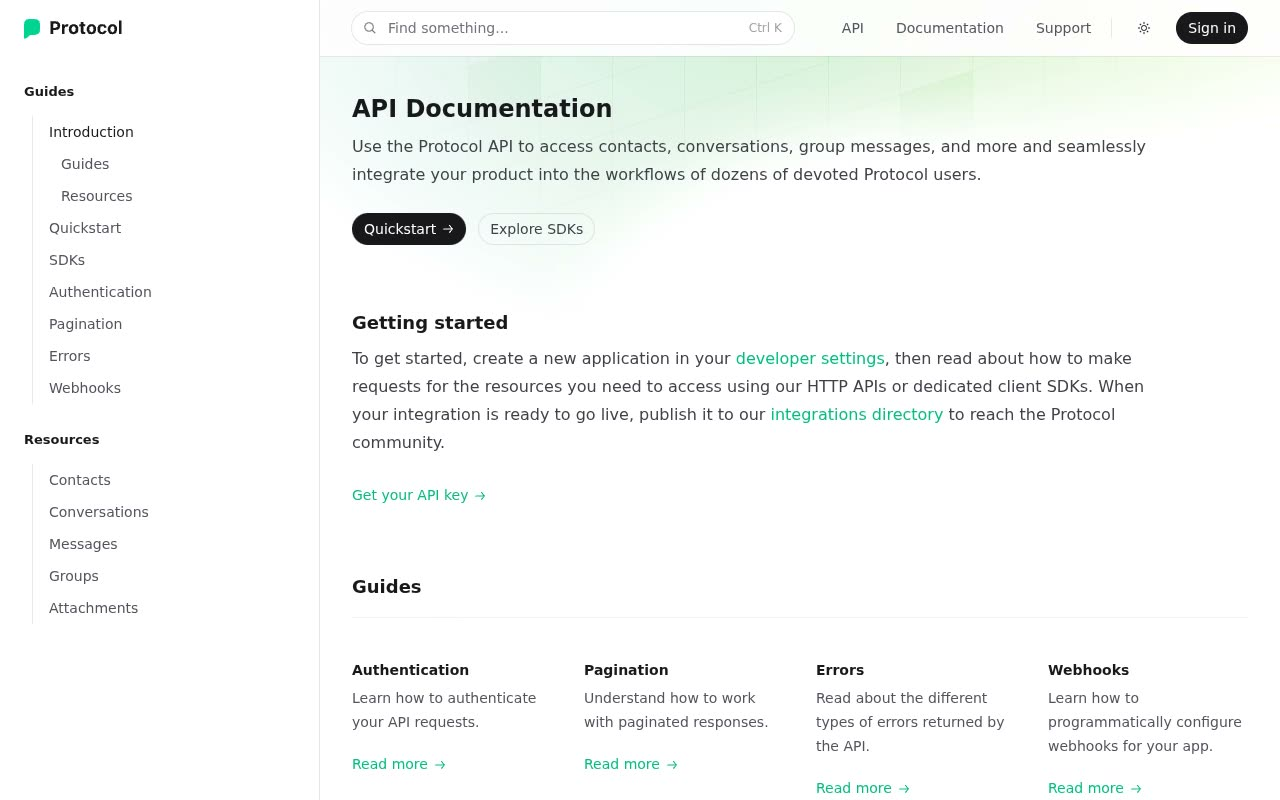
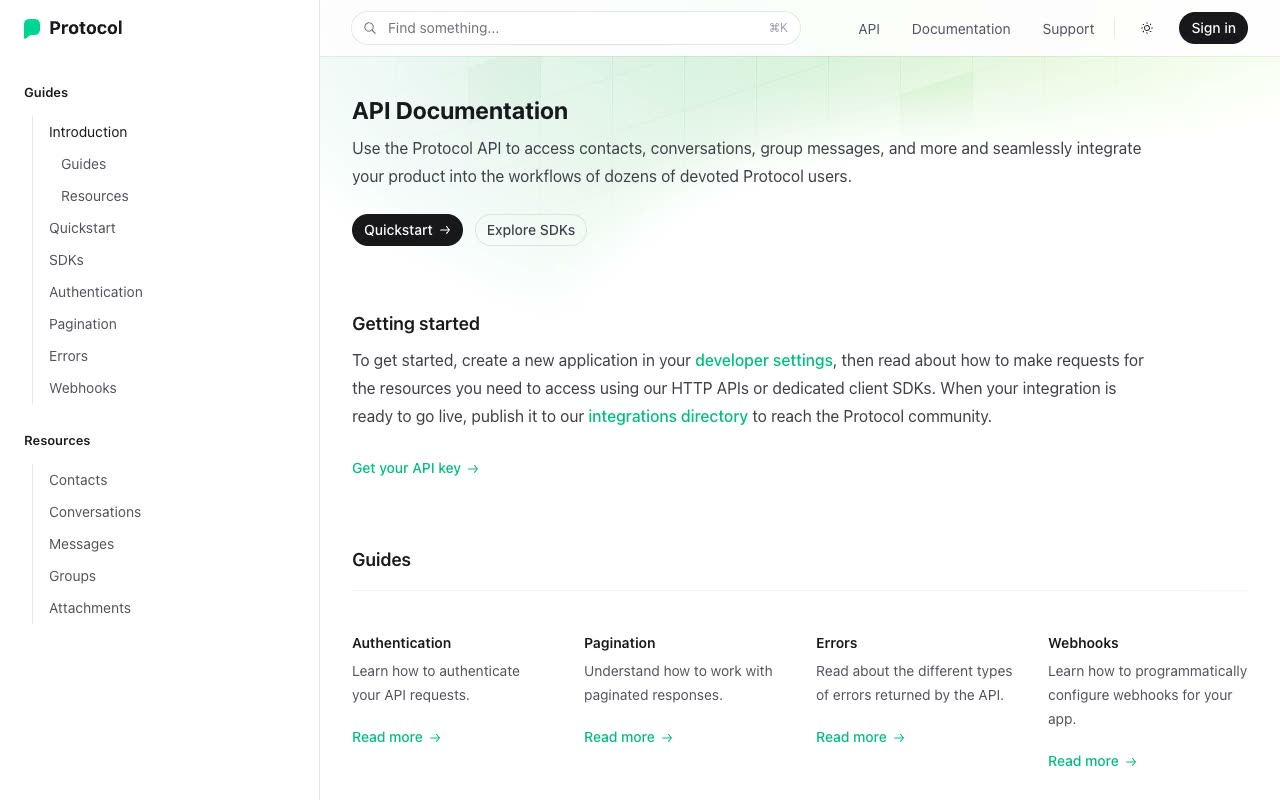
Audit fixes for premium/tailwindcss/protocol
Replace hardcoded 'Ctrl' modifier key in all 12 search-bar <kbd> elements with
the correct '⌘' symbol to match the original Tailwind Plus Protocol template.
Re-recorded demo.mp4 and regenerated poster.jpg/posters.json.

diff --git a/templates/premium/tailwindcss/protocol/attachments.html b/templates/premium/tailwindcss/protocol/attachments.html
@@ -82,7 +82,7 @@
 										></path>
 									</svg>Find something...<kbd
 										class="ml-auto text-2xs text-zinc-400 dark:text-zinc-500"
-										><kbd class="font-sans">Ctrl </kbd
+										><kbd class="font-sans">⌘</kbd
 										><kbd class="font-sans">K</kbd></kbd
 									>
 								</button>

diff --git a/templates/premium/tailwindcss/protocol/authentication.html b/templates/premium/tailwindcss/protocol/authentication.html
@@ -82,7 +82,7 @@
 										></path>
 									</svg>Find something...<kbd
 										class="ml-auto text-2xs text-zinc-400 dark:text-zinc-500"
-										><kbd class="font-sans">Ctrl </kbd
+										><kbd class="font-sans">⌘</kbd
 										><kbd class="font-sans">K</kbd></kbd
 									>
 								</button>

diff --git a/templates/premium/tailwindcss/protocol/contacts.html b/templates/premium/tailwindcss/protocol/contacts.html
@@ -82,7 +82,7 @@
 										></path>
 									</svg>Find something...<kbd
 										class="ml-auto text-2xs text-zinc-400 dark:text-zinc-500"
-										><kbd class="font-sans">Ctrl </kbd
+										><kbd class="font-sans">⌘</kbd
 										><kbd class="font-sans">K</kbd></kbd
 									>
 								</button>

diff --git a/templates/premium/tailwindcss/protocol/conversations.html b/templates/premium/tailwindcss/protocol/conversations.html
@@ -82,7 +82,7 @@
 										></path>
 									</svg>Find something...<kbd
 										class="ml-auto text-2xs text-zinc-400 dark:text-zinc-500"
-										><kbd class="font-sans">Ctrl </kbd
+										><kbd class="font-sans">⌘</kbd
 										><kbd class="font-sans">K</kbd></kbd
 									>
 								</button>

diff --git a/templates/premium/tailwindcss/protocol/errors.html b/templates/premium/tailwindcss/protocol/errors.html
@@ -82,7 +82,7 @@
 										></path>
 									</svg>Find something...<kbd
 										class="ml-auto text-2xs text-zinc-400 dark:text-zinc-500"
-										><kbd class="font-sans">Ctrl </kbd
+										><kbd class="font-sans">⌘</kbd
 										><kbd class="font-sans">K</kbd></kbd
 									>
 								</button>

diff --git a/templates/premium/tailwindcss/protocol/groups.html b/templates/premium/tailwindcss/protocol/groups.html
@@ -82,7 +82,7 @@
 										></path>
 									</svg>Find something...<kbd
 										class="ml-auto text-2xs text-zinc-400 dark:text-zinc-500"
-										><kbd class="font-sans">Ctrl </kbd
+										><kbd class="font-sans">⌘</kbd
 										><kbd class="font-sans">K</kbd></kbd
 									>
 								</button>

diff --git a/templates/premium/tailwindcss/protocol/index.html b/templates/premium/tailwindcss/protocol/index.html
@@ -82,7 +82,7 @@
 										></path>
 									</svg>Find something...<kbd
 										class="ml-auto text-2xs text-zinc-400 dark:text-zinc-500"
-										><kbd class="font-sans">Ctrl </kbd
+										><kbd class="font-sans">⌘</kbd
 										><kbd class="font-sans">K</kbd></kbd
 									>
 								</button>

diff --git a/templates/premium/tailwindcss/protocol/messages.html b/templates/premium/tailwindcss/protocol/messages.html
@@ -82,7 +82,7 @@
 										></path>
 									</svg>Find something...<kbd
 										class="ml-auto text-2xs text-zinc-400 dark:text-zinc-500"
-										><kbd class="font-sans">Ctrl </kbd
+										><kbd class="font-sans">⌘</kbd
 										><kbd class="font-sans">K</kbd></kbd
 									>
 								</button>

diff --git a/templates/premium/tailwindcss/protocol/pagination.html b/templates/premium/tailwindcss/protocol/pagination.html
@@ -82,7 +82,7 @@
 										></path>
 									</svg>Find something...<kbd
 										class="ml-auto text-2xs text-zinc-400 dark:text-zinc-500"
-										><kbd class="font-sans">Ctrl </kbd
+										><kbd class="font-sans">⌘</kbd
 										><kbd class="font-sans">K</kbd></kbd
 									>
 								</button>

diff --git a/templates/premium/tailwindcss/protocol/quickstart.html b/templates/premium/tailwindcss/protocol/quickstart.html
@@ -82,7 +82,7 @@
 										></path>
 									</svg>Find something...<kbd
 										class="ml-auto text-2xs text-zinc-400 dark:text-zinc-500"
-										><kbd class="font-sans">Ctrl </kbd
+										><kbd class="font-sans">⌘</kbd
 										><kbd class="font-sans">K</kbd></kbd
 									>
 								</button>

diff --git a/templates/premium/tailwindcss/protocol/sdks.html b/templates/premium/tailwindcss/protocol/sdks.html
@@ -82,7 +82,7 @@
 										></path>
 									</svg>Find something...<kbd
 										class="ml-auto text-2xs text-zinc-400 dark:text-zinc-500"
-										><kbd class="font-sans">Ctrl </kbd
+										><kbd class="font-sans">⌘</kbd
 										><kbd class="font-sans">K</kbd></kbd
 									>
 								</button>

diff --git a/templates/premium/tailwindcss/protocol/webhooks.html b/templates/premium/tailwindcss/protocol/webhooks.html
@@ -82,7 +82,7 @@
 										></path>
 									</svg>Find something...<kbd
 										class="ml-auto text-2xs text-zinc-400 dark:text-zinc-500"
-										><kbd class="font-sans">Ctrl </kbd
+										><kbd class="font-sans">⌘</kbd
 										><kbd class="font-sans">K</kbd></kbd
 									>
 								</button>